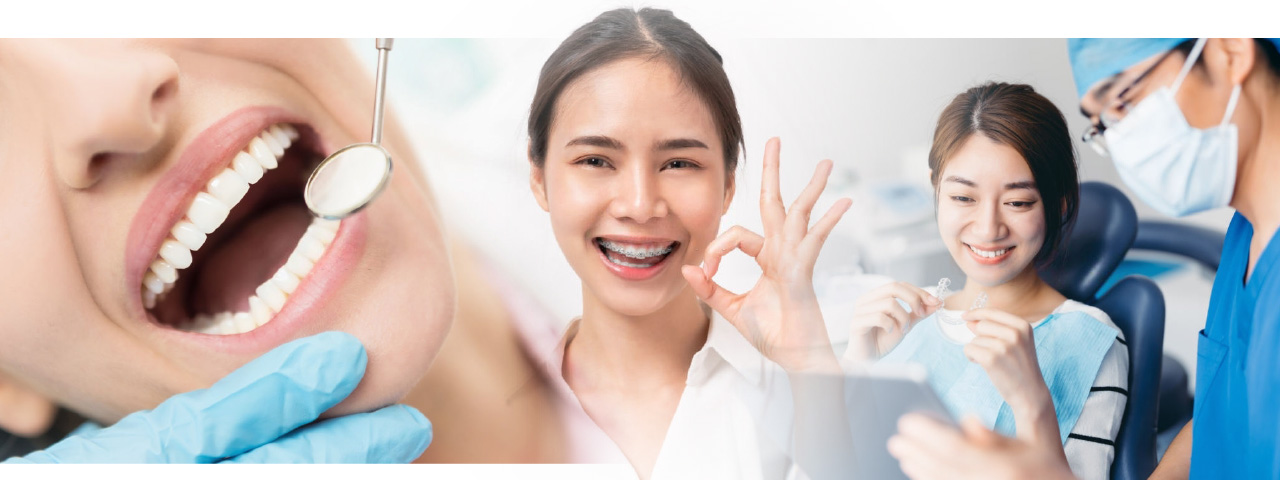
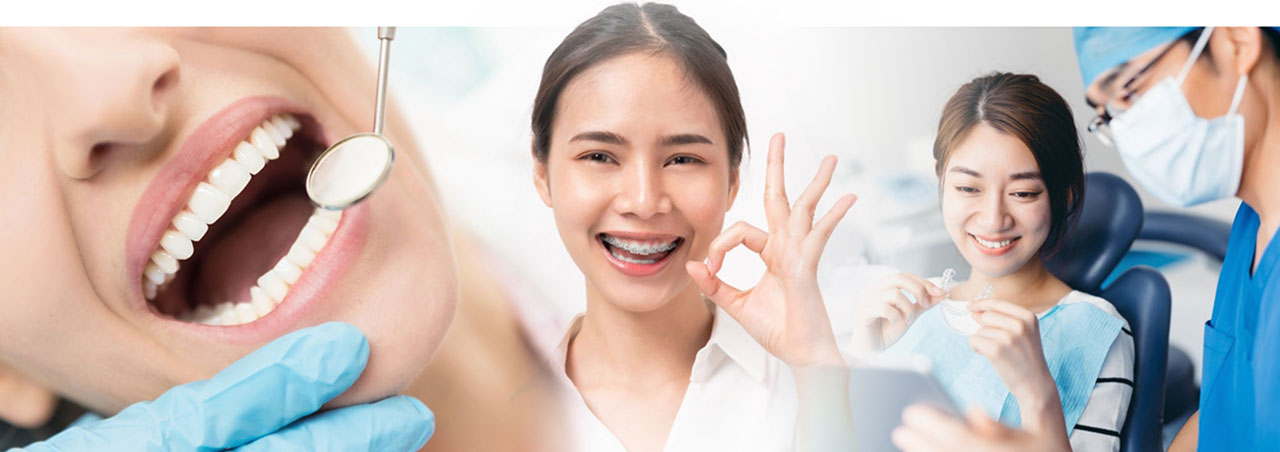
rev 2

diff --git a/pages/credentials/ivan-halim.js b/pages/credentials/ivan-halim.js
@@ -19,7 +19,7 @@ export default function Home() {
                 <div className="border border-gray-300"><img src="/images/ivan-halim.jpg" width="100" height="105" /></div>
               </div>
               <div className="float-none">
-                <h2 className="font-semibold text-base mb-2">IVAN A HALIM <span className="text-brand text-sm font-normal">DMD, MS, PhD, FICD, FWFO - Co-Owner</span></h2>
+                <h2 className="font-semibold text-base mb-2">IVAN A HALIM <span className="text-brand text-sm font-normal">DMD, MPH, MS, FWFO - Co-Owner</span></h2>
                 <p className="mb-4">Dr. Ivan Halim grew up in a family of dentists and often shadowed his father growing up. As he was finishing his high school, he realized that he wanted to follow his grandparents and father’s footstep and become the third-generation dentist in the family.</p>
                 <p className="mb-4">Dr. Ivan completed his undergraduate degree at University of California, Los Angeles (UCLA), CA, USA. He then moved to Arizona to complete a dual degree in Doctor of Dental Medicine and Master of Public Health at A.T. Still University, Arizona School of Dentistry & Oral Health, AZ, USA, followed by the Master of Science in Orthodontics and Certificate in Orthodontics and Dentofacial Orthopedics. Dr. Ivan have also taken additional courses on clear aligner and digital dentistry.</p>
                 <p className="mb-4">Dr. Ivan have published several scientific and clinical articles in peer-reviewed orthodontic and dental journals. He also presented several of his research at several national & international conferences. Dr. Ivan has a strong commitment to clinical education, patient care, and research and is currently holding a researcher status at A.T. Still University. Due to his passion in teaching, he is hoping to finish the Doctor of Philosophy (PhD) degree soon. He is also a reviewer of the American Journal of Orthodontics and Dentofacial Orthopedics (AJO-DO). </p>
@@ -31,7 +31,7 @@ export default function Home() {
         <div className="flex flex-wrap px-4 lg:px-0">
           <div className="w-full text-sm mb-8 lg:w-1/2 lg:pl-8 lg:pr-12 lg:mb-0">
             <h3 className="font-semibold mb-4 lg:mb-6">EDUCATION</h3>
-            <ul>
+            <ul className="xl:text-justify">
               <li className="mb-2"><span className="inline-block mr-2">Bachelor of Science in Biochemistry (BS)</span> <span className="text-brand text-sm font-normal">University of California, Los Angeles, CA, USA</span></li>
               <li className="mb-2"><span className="inline-block mr-2">Doctor of Dental Medicine (DMD)</span> <span className="text-brand text-sm font-normal">A.T. Still University, AZ, USA</span></li>
               <li className="mb-2"><span className="inline-block mr-2">Master of Public Health (MPH)</span> <span className="text-brand text-sm font-normal">A.T. Still University, AZ, USA</span></li>
@@ -48,7 +48,7 @@ export default function Home() {
                 <li className="mb-1"><span>Member of Pacific Coast Society of Orthodontists</span></li>
                 <li className="mb-1"><span>Member of California Association of Orthodontists</span></li>
               </ul>
-              <ul>
+              <ul className="xl:text-justify">
                 <li className="mb-1"><span>Member of Charles H. Tweed International Foundation</span></li>
                 <li className="mb-1"><span>Member of Delta Omega Honorary Society in Public Health</span></li>
                 <li className="mb-1"><span>Member of Indonesian Dental Association</span></li>

diff --git a/pages/index.js b/pages/index.js
@@ -1,4 +1,10 @@
-import Head from 'next/head'
+import Head from 'next/head';
+import { Navigation, Autoplay, EffectFade } from 'swiper';
+import { Swiper, SwiperSlide } from 'swiper/react';
+import 'swiper/css';
+import 'swiper/css/navigation';
+import 'swiper/css/pagination';
+import 'swiper/css/effect-fade';
 
 export default function Home() {
   return (
@@ -9,10 +15,18 @@ export default function Home() {
       </Head>
 
       <main className="max-w-7xl mx-auto px-0">
-        <div className="">
-          <img src="/images/home-hero.jpg" className="h-80 object-cover md:h-96 lg:h-auto" />
-        </div>
-        {/* <Image src="/images/home-hero.jpg" width={1280} height={480} /> */}
+        <Swiper
+          modules={[Navigation, EffectFade, Autoplay]}
+          navigation
+          autoplay={{ delay: 5000 }}
+          effect="fade"
+          spaceBetween={0}
+          slidesPerView={1}
+          loop
+        >
+          <SwiperSlide><img src="/images/home-hero.jpg" className="h-80 object-cover md:h-96 lg:h-auto" /></SwiperSlide>
+          <SwiperSlide><img src="/images/home-hero-2.jpg" className="h-80 object-cover md:h-96 lg:h-auto" /></SwiperSlide>
+        </Swiper>
         <div className="py-4 px-4 lg:px-8">
           <h2 className="text-2xl text-gray-400 text-center md:text-left">International dental experience by your best certified experts.</h2>
         </div>
@@ -22,15 +36,14 @@ export default function Home() {
             <a href="https://wa.me/6281233330476" target="_blank"><img className="mx-auto md:mr-0 md:ml-auto" src="/images/whatsapp-btn.png" /></a>
           </div> */}
           <div className="w-full md:w-auto md:pr-8 md:order-first">
-            <ul className="grid grid-cols-3 md:flex md:flex-wrap gap-4 items-center ">
-              <li><img className="mx-auto" src="/images/logos/AAO.png" alt="" /></li>
-              <li><img className="mx-auto" src="/images/logos/ADA.png" alt="" /></li>
-              <li><img className="mx-auto" src="/images/logos/APOS.png" alt="" /></li>
-              <li className="hidden md:block md:w-full lg:w-auto lg:hidden"></li>
-              <li><img className="mx-auto" src="/images/logos/EOS.png" alt="" /></li>
-              <li><img className="mx-auto" src="/images/logos/IKORTI.png" alt="" /></li>
-              <li><img className="mx-auto" src="/images/logos/PDGI.png" alt="" /></li>
-              <li className="col-span-3 md:col-auto"><img className="mx-auto" src="/images/logos/WFO.png" alt="" /></li>
+            <ul className="grid grid-cols-3 md:flex md:flex-wrap lg:flex-nowrap gap-4 xl:gap-8 items-center ">
+              <li><img className="mx-auto h-10 lg:h-12 xl:h-16 object-contain" src="/images/logos/AAO.png" alt="" /></li>
+              <li><img className="mx-auto h-10 lg:h-12 xl:h-16 object-contain" src="/images/logos/ADA.png" alt="" /></li>
+              <li><img className="mx-auto h-10 lg:h-12 xl:h-16 object-contain" src="/images/logos/APOS.png" alt="" /></li>
+              <li><img className="mx-auto h-10 lg:h-12 xl:h-16 object-contain" src="/images/logos/EOS.png" alt="" /></li>
+              <li><img className="mx-auto h-10 lg:h-12 xl:h-16 object-contain" src="/images/logos/IKORTI.png" alt="" /></li>
+              <li><img className="mx-auto h-10 lg:h-12 xl:h-16 object-contain" src="/images/logos/PDGI.png" alt="" /></li>
+              <li className="col-span-3 md:col-auto"><img className="mx-auto w-auto h-10 xl:h-16 object-contain" src="/images/logos/WFO.png" alt="" /></li>
             </ul>
           </div>
         </div>

diff --git a/pages/contact-us.js b/pages/contact-us.js
@@ -57,13 +57,13 @@ export default function Home() {
           <div className="w-full md:w-1/2 lg:w-2/5">
             <h2 className="mb-4 text-brand">RECEPTIONIST HOURS</h2>
             <ul>
-              <li><span className="inline-block w-40 text-gray-400 align-top">Monday</span><span className="inline-block">9.00 – 18.00</span></li>
-              <li><span className="inline-block w-40 text-gray-400 align-top">Tuesday</span><span className="inline-block">9.00 – 18.00</span></li>
-              <li><span className="inline-block w-40 text-gray-400 align-top">Wednesday</span><span className="inline-block">9.00 – 18.00</span></li>
-              <li><span className="inline-block w-40 text-gray-400 align-top">Thursday</span><span className="inline-block">9.00 – 18.00</span></li>
-              <li><span className="inline-block w-40 text-gray-400 align-top">Friday</span><span className="inline-block">9.00 – 18.00</span></li>
-              <li><span className="inline-block w-40 text-gray-400 align-top">Saturday</span><span className="inline-block">9.00 – 14.00</span></li>
-              <li><span className="inline-block w-40 text-gray-400 align-top">Sunday &<br />Public Holiday</span><span className="inline-block">Closed</span></li>
+              <li><span className="inline-block pr-4 w-40 xl:w-64 text-gray-400 align-top">Monday</span><span className="inline-block">9.00 – 18.00</span></li>
+              <li><span className="inline-block pr-4 w-40 xl:w-64 text-gray-400 align-top">Tuesday</span><span className="inline-block">9.00 – 18.00</span></li>
+              <li><span className="inline-block pr-4 w-40 xl:w-64 text-gray-400 align-top">Wednesday</span><span className="inline-block">9.00 – 18.00</span></li>
+              <li><span className="inline-block pr-4 w-40 xl:w-64 text-gray-400 align-top">Thursday</span><span className="inline-block">9.00 – 18.00</span></li>
+              <li><span className="inline-block pr-4 w-40 xl:w-64 text-gray-400 align-top">Friday</span><span className="inline-block">9.00 – 18.00</span></li>
+              <li><span className="inline-block pr-4 w-40 xl:w-64 text-gray-400 align-top">Saturday</span><span className="inline-block">9.00 – 14.00</span></li>
+              <li><span className="inline-block pr-4 w-40 xl:w-64 text-gray-400 align-top">Sunday & Public Holiday</span><span className="inline-block">Closed</span></li>
             </ul>
           </div>
         </div>

diff --git a/pages/credentials/himawan-halim.js b/pages/credentials/himawan-halim.js
@@ -30,7 +30,7 @@ export default function Home() {
         <div className="flex flex-wrap px-4 lg:px-0">
           <div className="w-full text-sm mb-8 lg:w-1/2 lg:pl-8 lg:pr-12 lg:mb-0">
             <h3 className="font-semibold mb-4 lg:mb-6">EDUCATION</h3>
-            <ul>
+            <ul className="xl:text-justify">
               <li className="mb-2"><span className="inline-block mr-2">Bachelor of Science in Chemistry (BS)</span> <span className="text-brand text-sm font-normal">University of California, Los Angeles, CA, USA</span></li>
               <li className="mb-2"><span className="inline-block mr-2">Doctor of Dental Medicine (DMD)</span> <span className="text-brand text-sm font-normal">Washington University in St. Louis, MO, USA</span></li>
               <li className="mb-2"><span className="inline-block mr-2">Master of Science in Orthodontics (MS)</span> <span className="text-brand text-sm font-normal">Washington University in St. Louis, MO, USA</span></li>
@@ -39,7 +39,7 @@ export default function Home() {
           </div>
           <div className="w-full text-sm lg:w-1/2 lg:pr-8">
             <h3 className="font-semibold mb-4 lg:mb-6">ACCREDITATIONS</h3>
-            <div className="grid grid-cols-1 lg:grid-cols-2 lg:gap-x-4 text-brand">
+            <div className="grid grid-cols-1 lg:grid-cols-2 lg:gap-x-8 text-brand">
               <ul>
                 <li className="mb-1"><span>Member of American Dental Association</span></li>
                 <li className="mb-1"><span>Member of American Association of Orthodontists</span></li>
@@ -47,7 +47,7 @@ export default function Home() {
                 <li className="mb-1"><span>Member of Indonesian Dental Association</span></li>
                 <li className="mb-1"><span>Member of Indonesian Association of Orthodontists</span></li>
               </ul>
-              <ul>
+              <ul className="xl:text-justify">
                 <li className="mb-1"><span>Board Member of World Implant Orthodontic Association</span></li>
                 <li className="mb-1"><span>Past Executive Board Member of Asian Pacific Orthodontic Society</span></li>
                 <li className="mb-1"><span>Fellow of World Federation of Orthodontists (Executive Board Member 2010-2020)</span></li>

diff --git a/pages/about-us.js b/pages/about-us.js
@@ -25,7 +25,7 @@ export default function Home() {
                 <p>The clinic was started by Dr. Himawan Halim back in the early 1990s and was well known as ‘Himawan Halim Dental Clinic’. The clinic is now co-owned by him and his son, Dr. Ivan A Halim. Dr. Himawan and Dr. Ivan is a second and third generation dentist and are both a US trained dentist/orthodontist. Both doctors will delegate treatment as necessary to the clinic associates which include team of periodontist, endodontist, prosthodontist, dental radiologist, and oral & maxillofacial surgeon. With the addition of Dr. Ivan and added vision and mission for our clinic, the clinic is now known as ‘Halim Dental Clinic’.</p>
               </div>
               <div className="mb-8">
-                <h2 className="font-bold mb-2">CENTRAL BUSINESS DISTRICT LOCATION (CBD)</h2>
+                <h2 className="font-bold mb-2">CENTRAL BUSINESS DISTRICT (CBD) LOCATION</h2>
                 <p>Halim Dental Clinic is located in the heart of Jakarta, just 3 minutes from Bundaran HI, behind Mandarin Oriental Hotel and the German Embassy (Embassy of the Federal Republic of Germany).</p>
               </div>
             </div>

diff --git a/components/Navbar.js b/components/Navbar.js
@@ -61,7 +61,7 @@ const Navbar = () => {
               <div className="flex-1 flex items-center justify-between">
                 <div className="flex items-center">
                   <Link href="/">
-                    <a className="block mr-4"><img className="h-10 lg:h-14 mr-auto" src="/logo-halimdentalclinic.svg" /></a>
+                    <a className="block mr-4"><img className="h-10 lg:h-14 mr-auto" src="/images/logo-halimdentalclinic.svg" /></a>
                   </Link>
                 </div>
                 <div className="navbar hidden lg:block lg:w-1/2">

diff --git a/pages/services.js b/pages/services.js
@@ -19,7 +19,6 @@ export default function Home() {
             <div className="px-4 py-4 mb-8 lg:w-3/4 lg:mb-0 lg:py-0 lg:pl-6 lg:pr-8">
               <h2 className="font-bold mb-8 lg:mt-8">WE OFFER PRIME QUALITY SERVICES & TREATMENTS</h2>
               <ul className="flex gap-3 flex-col">
-                <li>Emergency Dentistry</li>
                 <li>General Dentistry</li>
                 <li>Cosmetic Dentistry (i.e. veneers, teeth whitening) </li>
                 <li>Restorative Dentistry </li>

diff --git a/styles/globals.css b/styles/globals.css
@@ -37,4 +37,8 @@
     font-size: 2.5em;
     @apply fixed right-4 bottom-4 m-0 lg:right-8 lg:bottom-8;
   }
+  .swiper-button-next,
+  .swiper-button-prev {
+    @apply text-brand;
+  }
 }
